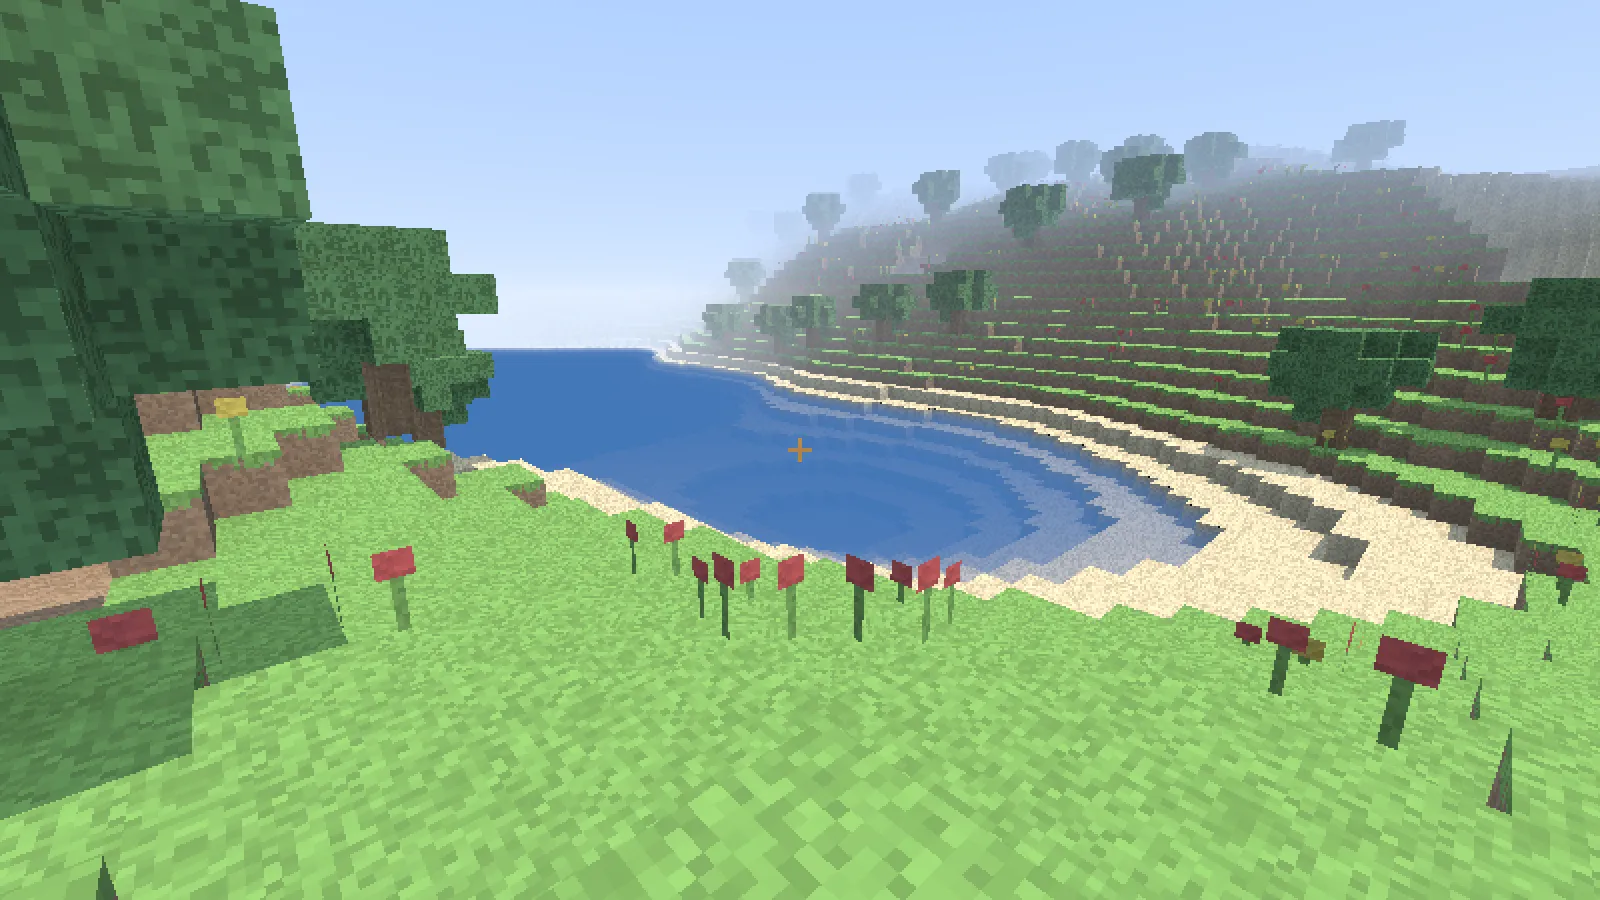
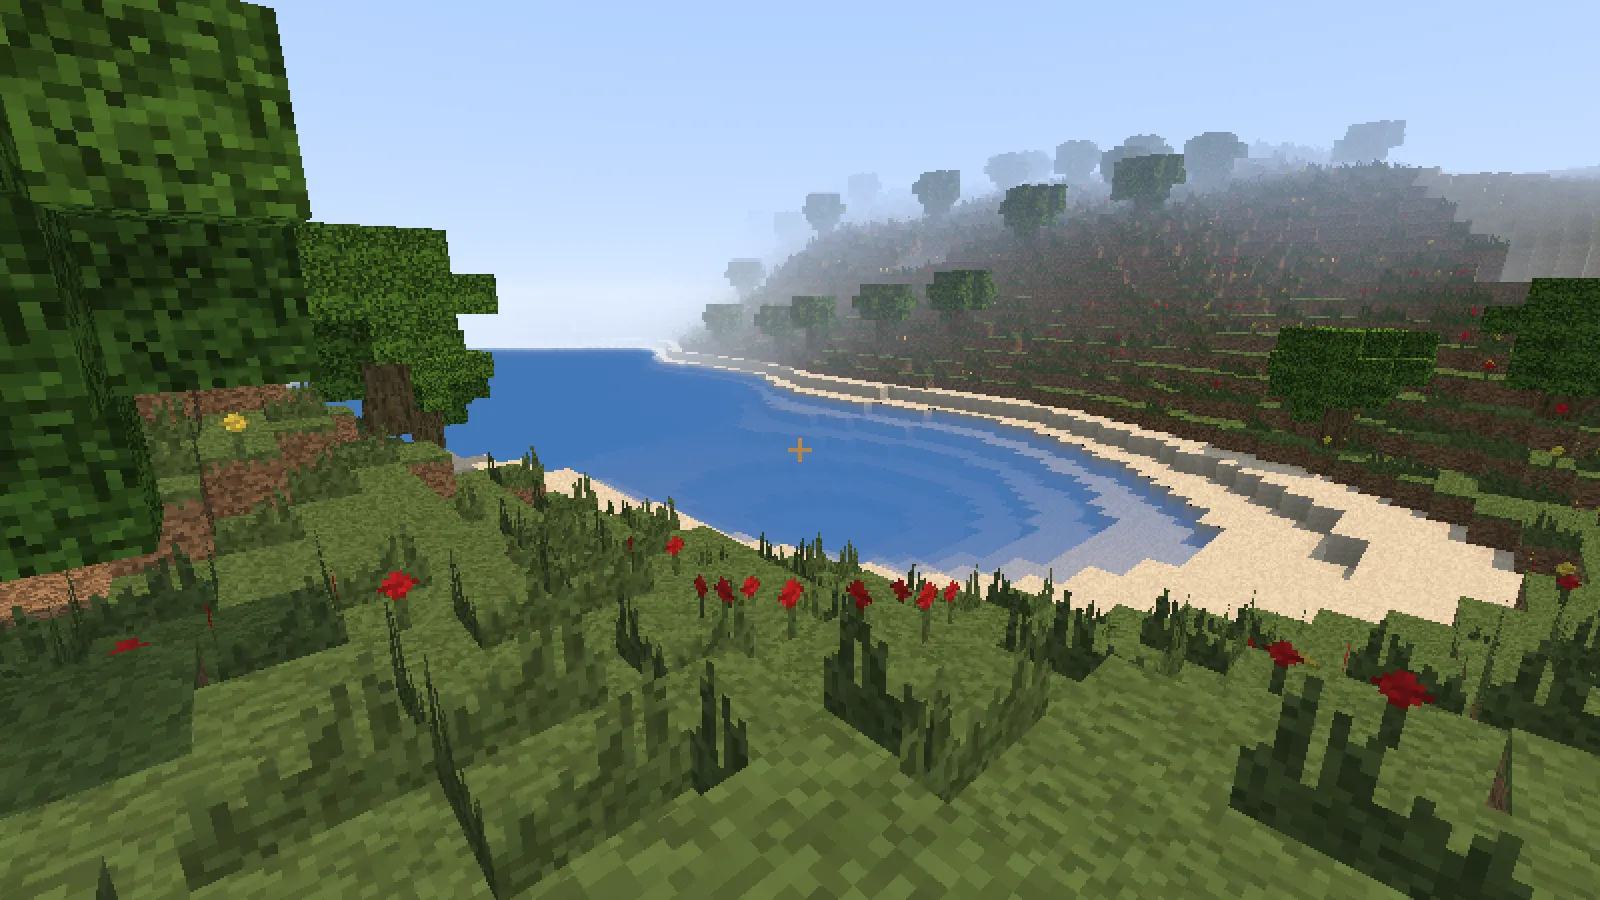
docs(readme): Mention the grass tufts and refresh the hero and flowers screenshots.

diff --git a/README.md b/README.md
@@ -1,6 +1,6 @@
 # 4k-minecraft
 
-A remake of Notch's 2009 Minecraft 4k as one self-extracting HTML file of at most 4096 bytes, rendered with WebGPU. The page, `dist/index.html`, is 4073 bytes.
+A remake of Notch's 2009 Minecraft 4k as one self-extracting HTML file of at most 4096 bytes, rendered with WebGPU. The page, `dist/index.html`, is 4091 bytes.
 
 ## Screenshots
 
@@ -18,7 +18,7 @@ A remake of Notch's 2009 Minecraft 4k as one self-extracting HTML file of at mos
 <td width="50%"><img src="screenshots/blocks.webp" alt="A 3x3 build of the nine placeable blocks"><br><sub>The nine placeable blocks and their 16x16 procedural textures.</sub></td>
 </tr>
 <tr>
-<td width="50%"><img src="screenshots/flowers.webp" alt="Red and yellow flowers in a meadow"><br><sub>A flower meadow seen from the ground.</sub></td>
+<td width="50%"><img src="screenshots/flowers.webp" alt="Red and yellow flowers and grass tufts in a meadow"><br><sub>A meadow of flowers and short grass tufts seen from the ground.</sub></td>
 <td width="50%"><img src="screenshots/underwater.webp" alt="The sandy bottom of a lake seen from under the surface"><br><sub>Underwater: the sandy bottom of a lake behind the blue tint.</sub></td>
 </tr>
 </table>
@@ -31,10 +31,10 @@ Notch's entry for the Java 4K contest, released in December 2009, was 2581 bytes
 
 ## Features
 
-- World: 512x512x64 cells that wrap around on x and z. Value-noise terrain, lakes at sea level with beaches, deserts, snow on the peaks, caves, trees, flowers on the grass and coal, iron and diamond ores.
+- World: 512x512x64 cells that wrap around on x and z. Value-noise terrain, lakes at sea level with beaches, deserts, snow on the peaks, caves, trees, flowers and short grass tufts on the grass and coal, iron and diamond ores.
 - Physics: a 0.6 x 1.8 box with gravity, jumping, wall and ceiling collisions and swimming. One block can be climbed by jumping, and Space in water jumps out of the lake onto the shore.
-- Rendering: voxel ray marching per pixel at half the window resolution, procedural 16x16 textures, ambient occlusion, sun shadows, a day and night cycle with stars, distance fog, underwater tint, a block outline and a crosshair.
-- Blocks: break the block you aim at (reach of 6 blocks, a flower above it goes with it) and place the selected block in front of it. A flower can be broken directly or replaced by a block.
+- Rendering: voxel ray marching per pixel at half the window resolution, procedural 16x16 textures with colours and patterns matched to the vanilla block textures, ambient occlusion, sun shadows, a day and night cycle with stars, distance fog, underwater tint, a block outline and a crosshair.
+- Blocks: break the block you aim at (reach of 6 blocks, a plant above it goes with it) and place the selected block in front of it. A flower or a tuft can be broken directly or replaced by a block.
 
 ## Controls
 
